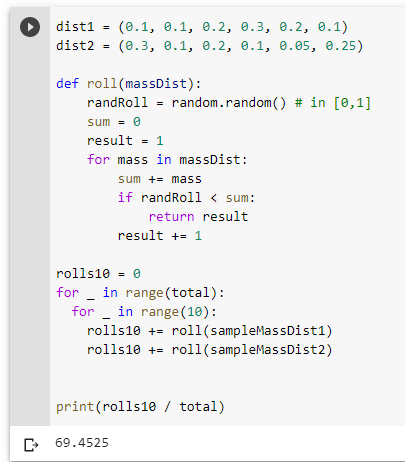
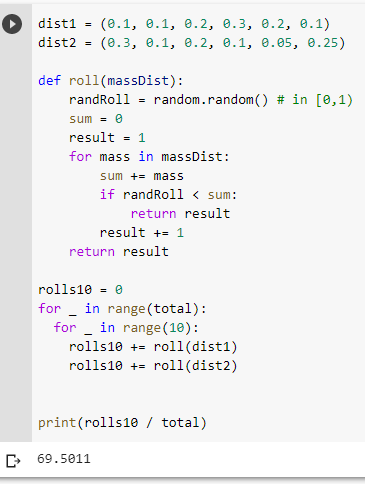
fixed

diff --git a/a3.tex b/a3.tex
@@ -28,11 +28,12 @@ Compare your result with the true value by calculating the simple error, ie $|tr
 
 4 subintervals thus $h = \frac{1 - 0}{4} = 0.25 \Rightarrow x_0 = 0, x_1 = 0.25, x_2 = 0.5, x_3 = 0.75, x_4 = 1$
 
-$\int_{0}^{1} \frac{2}{1+x^2} dx \simeq \frac{h}{3}[ \frac{2}{1 + 0^2} + 4\frac{2}{1+0.25^2} + 2\frac{2}{1+0.5^2} + 4\frac{2}{1+0.75^2} + \frac{2}{1+1^2}] = 1.570784$
+$\int_{0}^{1} \frac{2}{1+x^2} dx \simeq \frac{h}{3}[ \frac{2}{1+x_0^2} + 4\frac{2}{1+x_1^2}+ 2\frac{2}{1+x_2^2} + 4\frac{2}{1+x_3^2} + \frac{2}{1+x_4^2}]
+= \frac{h}{3}[ \frac{2}{1 + 0^2} + 4\frac{2}{1+0.25^2} + 2\frac{2}{1+0.5^2} + 4\frac{2}{1+0.75^2} + \frac{2}{1+1^2}] = 1.570784$
 
 True value of $\int_{0}^{1} \frac{2}{1+x^2} dx = 2 * \arctan(1) - 2 * \arctan(0) = 1.570796$
 
-$Error = |true - approx| = |1.570796 -  1.570784| = 0.000012$
+$Error = |true - approx| = |1.570796 -  1.570784| = 0.000012$ or $0.00076\%$
 
 Very close to 0.
 
@@ -78,7 +79,7 @@ Python 3 code: \\
 \includegraphics{a3_q4}
 \end{center}
 
-The average result of throwing each of the dies 10 times is 69.4525. 
+The average result of throwing each of the dies 10 times is 69.5011. 
 
 Given the distribution table $E(x_1) = \sum_{i = 1}^{6}{P(x_1 == i) * i} = 1 * 0.1 + 2 * 0.1 + 3 * 0.2 + 4 * 0.3 + 5 * 0.2 + 6 * 0.1 = 3.7$ \\
 Similarly $E(x_2) = 1 * 0.3 + 2 * 0.1 + 3 * 0.2 + 4 * 0.1 + 5 * 0.05 + 6 * 0.25 = 3.25$ \\
